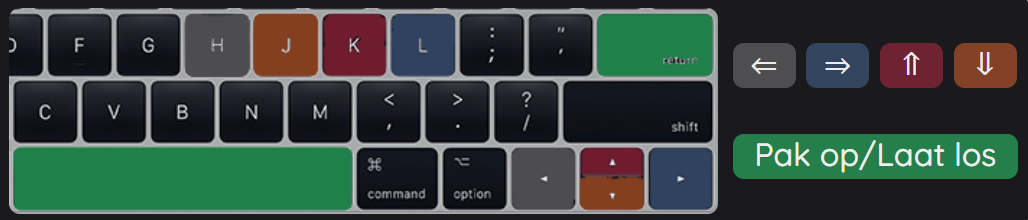
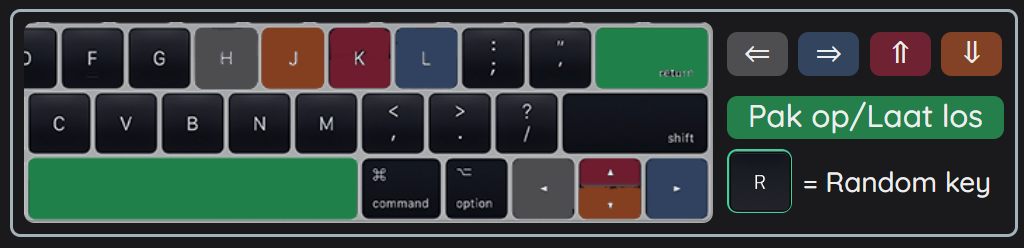
Updated README. Added questions to README

diff --git a/docs/js/script.js b/docs/js/script.js
@@ -69,11 +69,12 @@ document.addEventListener("keydown", event => {
             moveItemUp();
         } else if (randomKeys.includes(event.code) && currentLiftedItemNode) {
             moveToRandom();
+
+            // Drop the item once it is placed somewhere randomly
             dropItem();
         } else if (grabItemKeys.includes(event.code)) {
             grabItem();
         }
-
     }
     // Navigate left
     else if (navigateLeftKeys.includes(event.code)) {

diff --git a/README.md b/README.md
@@ -134,6 +134,28 @@ Initially I wanted to enlarge the size of fonts and components in the prototype,
 
 </details>
 
+<details>  
+    <summary>Week 2</summary>
+    
+#### Questions
+
+* How do you like the new color scheme of the app?
+* Is there anything you would change for the current design?
+* Was/is it clear what all the controls are?
+* Last week you told me that you didn't like the shifting colors on focused items, is the current implementation to your liking?
+* Last week you told me that you want to see a functionality to move items up and down in a board, is the current implementation to your liking?
+* Are there any colors or visual aspects that are not to your liking?
+* What do you think of the favicon/app icon?
+
+#### Improvements for V2 of the prototype
+
+
+#### Extra things I observed
+
+
+</details>
+
+
 ## Changes from V1 to V2
 
 Every change made here is from the feedback I got during week 1. Go to [Feedback sessions](#Feedback-sessions) week 1 to see the results of this test
@@ -205,6 +227,20 @@ Items can now be moved up and down in a board:
 I added a favicon with a punk/rock style as an "easteregg"
 
 ![Image](docs/img/punk.png)
+
+#### (Nonsense) Added functionality to randomly place an item
+By pressing one of the random key (bound to the key: "KeyR"), you can place the currently selected/grabbed item on a random board. A random board node is generated from a predefined list. If the randomly generated board node is the current focused board node, then another random board is generated. Eventually the selected/grabbed item is moved to that board.
+
+```javascript
+let randomBoardNode;
+
+do {
+    // Get a random board node. Repeat if board is the same as the current selected board
+    randomBoardNode = boardNodes[Math.floor(Math.random() * boardNodes.length)];
+} while (randomBoardNode === currentFocusedBoardNode);
+```
+
+![Image](docs/img/randomKeyGuide.png)
 
 
 ## Wishlist
